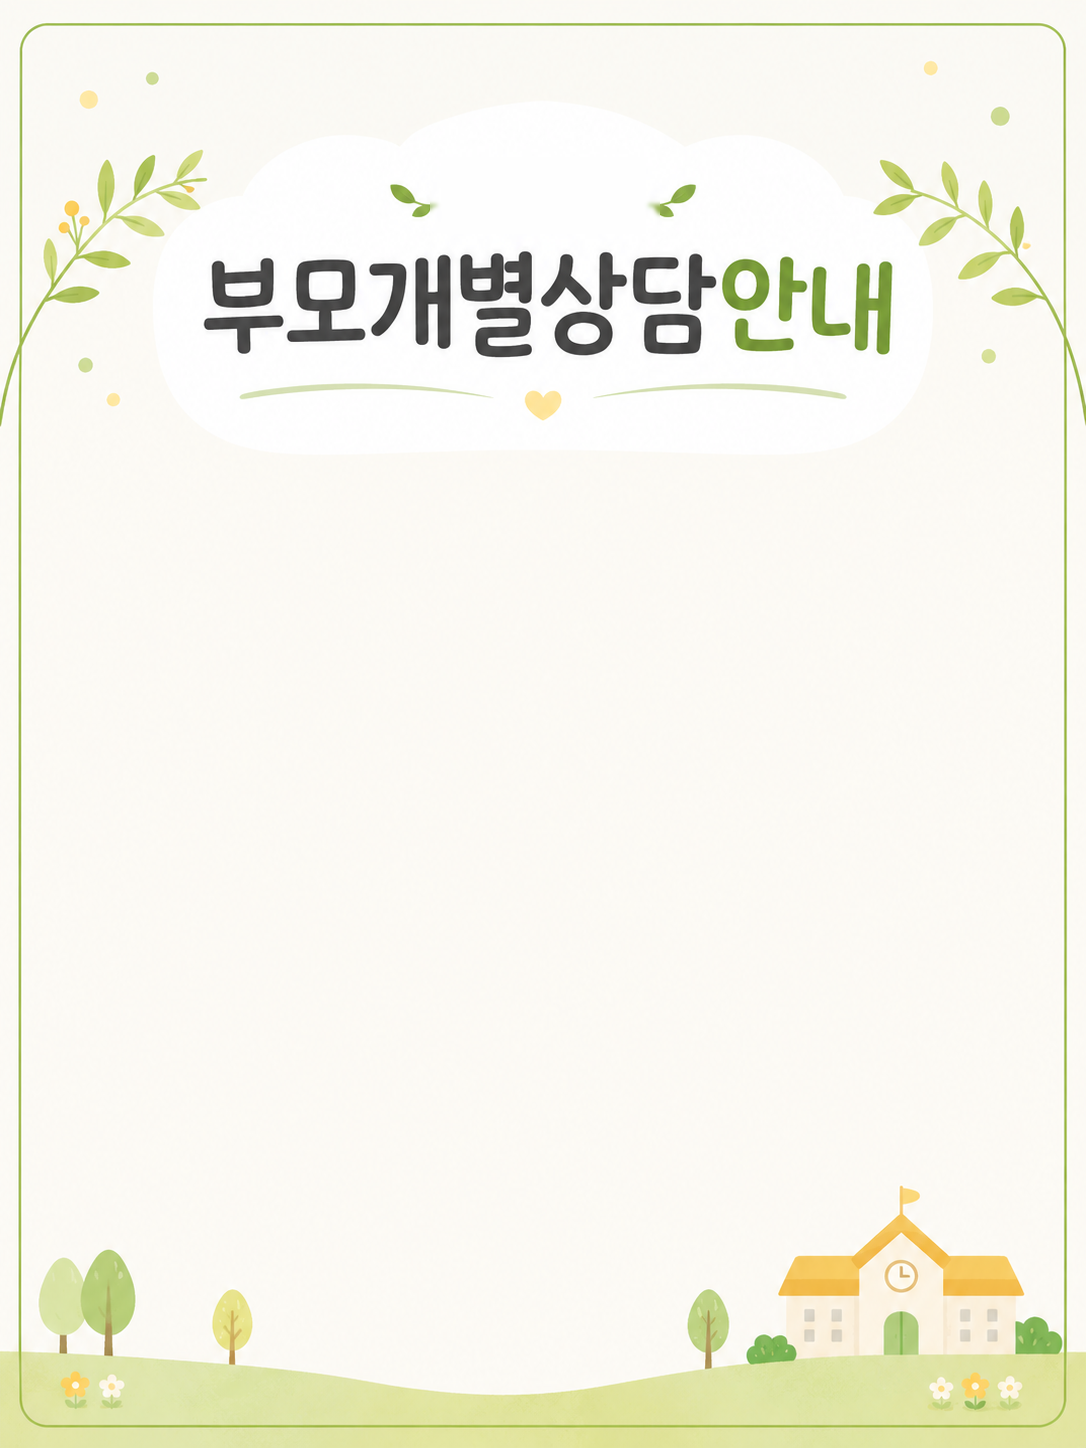
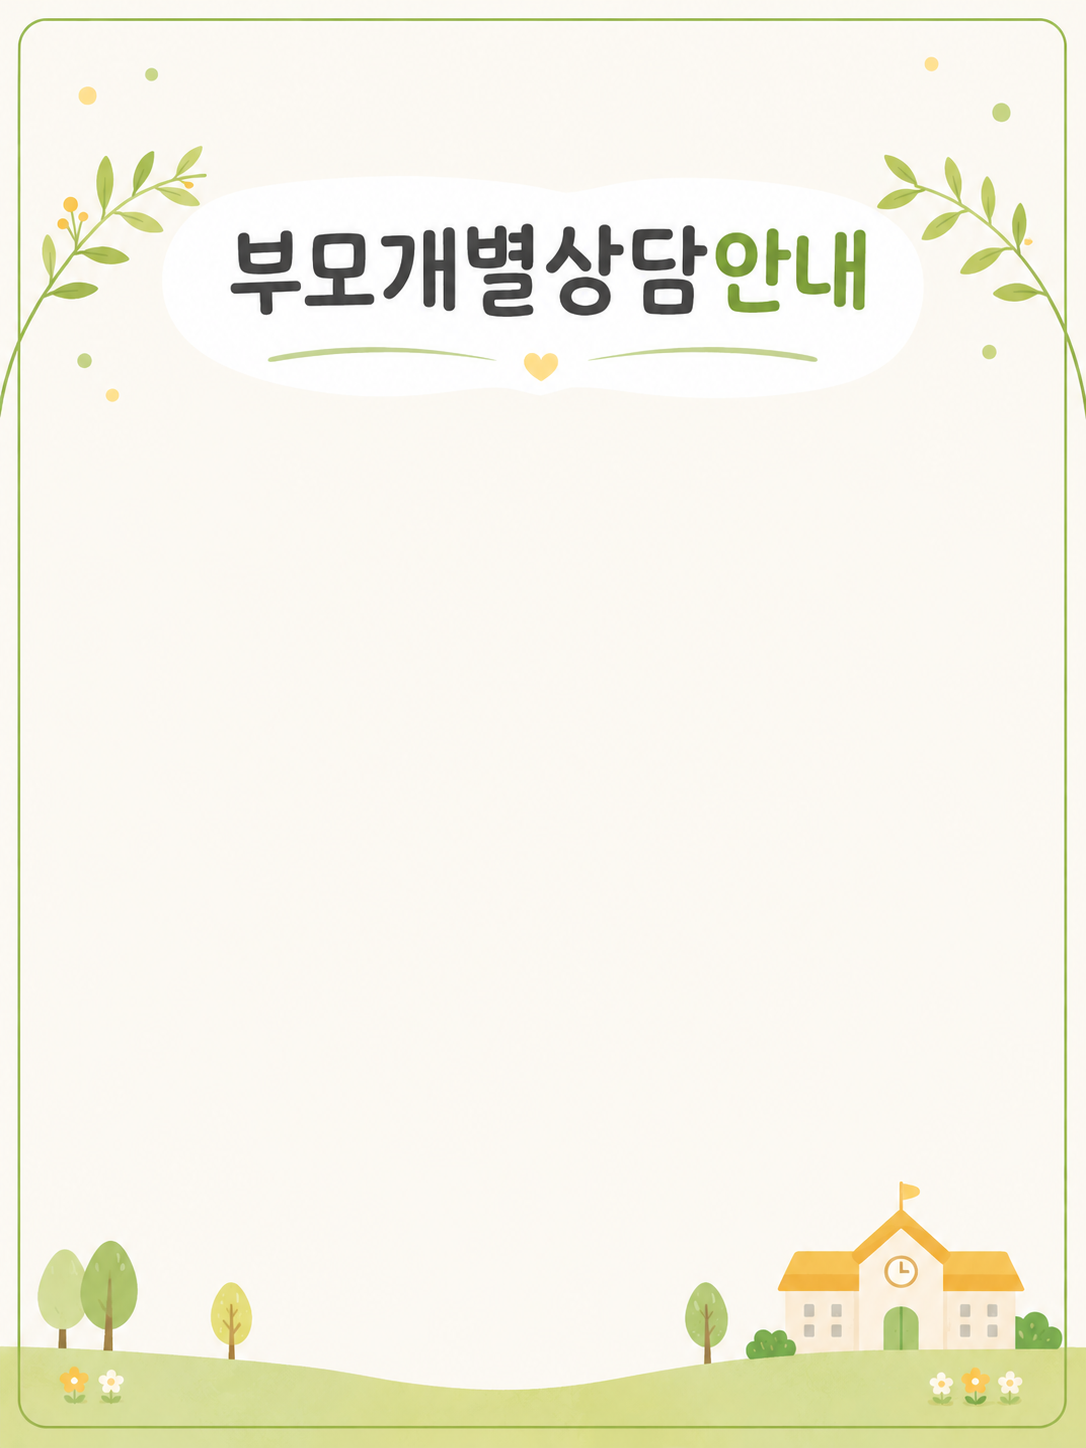
인쇄에 날짜·주소 안 찍히게, 안내문 서식을 학기 표시 없는 그림으로 교체

diff --git a/app/CounselWizard.js b/app/CounselWizard.js
@@ -3,8 +3,9 @@
 import { useState, useEffect, useRef } from 'react';
 import { saveForm, loadForm, clearForm } from '../lib/store';
 import { fileToResizedDataURL } from '../lib/image';
-import { buildCounselDoc, toHwpxBlocks, emptyRound, periodText, roundHasContent, noticeBlock, applyBlock, defaultNoticeItems, DEFAULT_BG, DEFAULT_BG_PLAIN, DEFAULT_APPLY_BG } from '../lib/counselDoc';
+import { buildCounselDoc, toHwpxBlocks, emptyRound, periodText, roundHasContent, noticeBlock, applyBlock, defaultNoticeItems, DEFAULT_BG, DEFAULT_APPLY_BG } from '../lib/counselDoc';
 import Block from './NewBlocks';
+import PrintSheet from './PrintSheet';
 
 const KEY = 'counsel-wizard';
 const MAX_PHOTOS = 4;
@@ -19,8 +20,8 @@ const STEPS = [
   { id: 'save' },
 ];
 
-// 회차별 기본 서식 (2회차는 학기 표시가 없는 그림)
-const freshRound = (i) => ({ ...emptyRound(), noticeBg: i === 1 ? DEFAULT_BG_PLAIN : DEFAULT_BG });
+// 회차 기본 서식 (1·2회차 같은 그림 — 학기 표시가 없어 두 회차 모두 쓸 수 있음)
+const freshRound = () => ({ ...emptyRound(), noticeBg: DEFAULT_BG });
 
 export default function CounselWizard({ onBack }) {
   const [data, setData] = useState({ rounds: [freshRound(0), freshRound(1)] });
@@ -385,7 +386,6 @@ export default function CounselWizard({ onBack }) {
                     <input type="file" accept="image/*" hidden onChange={(e) => { pickBg(e.target.files[0]); e.target.value = ''; }} />
                   </label>
                   <button className="bg-btn" onClick={() => upd({ noticeBg: DEFAULT_BG })}>기본 서식</button>
-                  <button className="bg-btn" onClick={() => upd({ noticeBg: DEFAULT_BG_PLAIN })}>학기 표시 없음</button>
                   <button className="bg-btn" onClick={() => upd({ noticeBg: '' })}>그림 없이</button>
                 </div>
                 {round.noticeBg && (
@@ -593,9 +593,9 @@ export default function CounselWizard({ onBack }) {
           </div>
           <div className="page-outer">
             <div className="print-area">
-              <div className="doc-page">
+              <PrintSheet>
                 {roundBlocksOnly.map((b, i) => <Block key={i} b={b} />)}
-              </div>
+              </PrintSheet>
             </div>
           </div>
         </>
@@ -626,9 +626,9 @@ export default function CounselWizard({ onBack }) {
           </div>
           <div className="page-outer">
             <div className="print-area">
-              <div className="doc-page">
+              <PrintSheet>
                 {blocks.map((b, i) => <Block key={i} b={b} />)}
-              </div>
+              </PrintSheet>
             </div>
           </div>
         </>

diff --git a/app/globals.css b/app/globals.css
@@ -507,6 +507,10 @@ button.ghost:disabled { color: #b7c4c0; border-color: #d6ddda; cursor: not-allow
   padding: 22mm 20mm; box-shadow: 0 4px 24px rgba(0,0,0,.12);
   font-family: 'Gowun Batang', serif; color: #1a1a1a;
 }
+/* 인쇄 여백용 틀 (화면에서는 그냥 폭 100% 표) */
+.doc-sheet { width: 100%; table-layout: fixed; border-collapse: collapse; }
+.doc-sheet > thead > tr > td, .doc-sheet > tbody > tr > td, .doc-sheet > tfoot > tr > td { padding: 0; border: 0; vertical-align: top; }
+.doc-sheet-top, .doc-sheet-bot { height: 0; }
 .doc-title { text-align: center; font-size: 24px; font-weight: 700; margin-bottom: 22px; padding-bottom: 12px; border-bottom: 2.5px solid #333; }
 .doc-heading { font-size: 16.5px; font-weight: 700; margin: 20px 0 8px; padding-left: 10px; border-left: 4px solid var(--brand); }
 .doc-para { font-size: 15px; margin-bottom: 6px; white-space: pre-wrap; line-height: 1.85; }
@@ -579,12 +583,16 @@ button.ghost:disabled { color: #b7c4c0; border-color: #d6ddda; cursor: not-allow
 
 /* ── 인쇄 ── */
 @media print {
-  /* 여백을 쪽(@page)에 주어야 둘째 쪽부터도 위아래 공백이 똑같이 생긴다 */
-  @page { size: A4; margin: 20mm; }
+  /* 쪽 여백을 0으로 두어야 브라우저가 날짜·주소 같은 머리글/바닥글을 넣지 않는다.
+     대신 위아래 여백은 아래의 표 머리글/바닥글 흉내로 모든 쪽에 넣는다. */
+  @page { size: A4; margin: 0; }
   body { background: #fff; }
   .wrap > *:not(.page-outer) { display: none !important; }
   .page-outer { display: block; }
-  .doc-page { box-shadow: none; width: auto; min-height: 0; margin: 0; padding: 0; }
+  .doc-page { box-shadow: none; width: auto; min-height: 0; margin: 0; padding: 0 18mm; }
+  /* 표의 머리글·바닥글은 쪽마다 반복되므로 모든 쪽에 같은 위아래 공백이 생긴다 */
+  .doc-sheet-top { height: 18mm; }
+  .doc-sheet-bot { height: 14mm; }
   .doc-heading { break-inside: avoid; }
   .doc-kv, .doc-sign { break-inside: avoid; }
   .doc-figure, .doc-photos-wrap, .doc-photo { break-inside: avoid; }

diff --git a/app/NewDocForm.js b/app/NewDocForm.js
@@ -2,6 +2,7 @@
 
 import { useState, useEffect, useRef, useMemo } from 'react';
 import { saveForm, loadForm, clearForm } from '../lib/store';
+import PrintSheet from './PrintSheet';
 
 // '서류 새로 만들기' 전용 작성 화면 (기존 분석·정리 화면과 별개)
 // 기본사항(어린이집·교직원·반·원아)을 재료로 서류 묶음을 한 번에 만든다.
@@ -230,9 +231,9 @@ export default function NewDocForm({ doc, onBack }) {
 
           <div className="page-outer">
             <div className="print-area">
-              <div className="doc-page">
+              <PrintSheet>
                 {blocks.map((b, i) => <Block key={i} b={b} />)}
-              </div>
+              </PrintSheet>
             </div>
           </div>
         </>

diff --git a/app/DocForm.js b/app/DocForm.js
@@ -2,6 +2,7 @@
 
 import { useState, useMemo, useEffect, useRef } from 'react';
 import { saveForm, loadForm, clearForm } from '../lib/store';
+import PrintSheet from './PrintSheet';
 
 // 업로드 이미지를 화면/PDF에 알맞게 축소해 dataURL로 변환 (용량·속도 안정화)
 function fileToResizedDataURL(file, maxW = 1200) {
@@ -438,9 +439,9 @@ export default function DocForm({ doc, onBack }) {
 
           <div className="page-outer">
             <div className="print-area">
-              <div className="doc-page">
+              <PrintSheet>
                 {blocks.map((b, i) => <Block key={i} b={b} />)}
-              </div>
+              </PrintSheet>
             </div>
           </div>
         </>

diff --git a/app/PrintSheet.js b/app/PrintSheet.js
@@ -1,0 +1,16 @@
+'use client';
+
+// 인쇄할 때 "모든 쪽" 위아래에 같은 여백을 넣기 위한 틀.
+// 브라우저는 표의 머리글(thead)·바닥글(tfoot)을 쪽마다 반복해서 그리므로,
+// 빈 머리글·바닥글을 여백 대신 쓴다. (쪽 여백을 0으로 두어야 날짜·주소가 안 찍힘)
+export default function PrintSheet({ children }) {
+  return (
+    <div className="doc-page">
+      <table className="doc-sheet">
+        <thead><tr><td><div className="doc-sheet-top" /></td></tr></thead>
+        <tbody><tr><td>{children}</td></tr></tbody>
+        <tfoot><tr><td><div className="doc-sheet-bot" /></td></tr></tfoot>
+      </table>
+    </div>
+  );
+}

diff --git a/lib/counselDoc.js b/lib/counselDoc.js
@@ -3,7 +3,7 @@
 
 // 안내문·신청서 배경 그림 (원장님이 준 서식). 다른 그림을 올리면 그것으로 바뀐다.
 export const DEFAULT_BG = '/notice-bg.png';
-// 같은 서식에서 학기 표시(2학기 딱지)만 지운 것 — 2회차 기본값
+// 예전에 저장해 둔 내용이 이 주소를 가리킬 수 있어 파일은 그대로 둔다(내용은 기본 서식과 같음)
 export const DEFAULT_BG_PLAIN = '/notice-bg-plain.png';
 export const DEFAULT_APPLY_BG = '/apply-bg.png';
 
